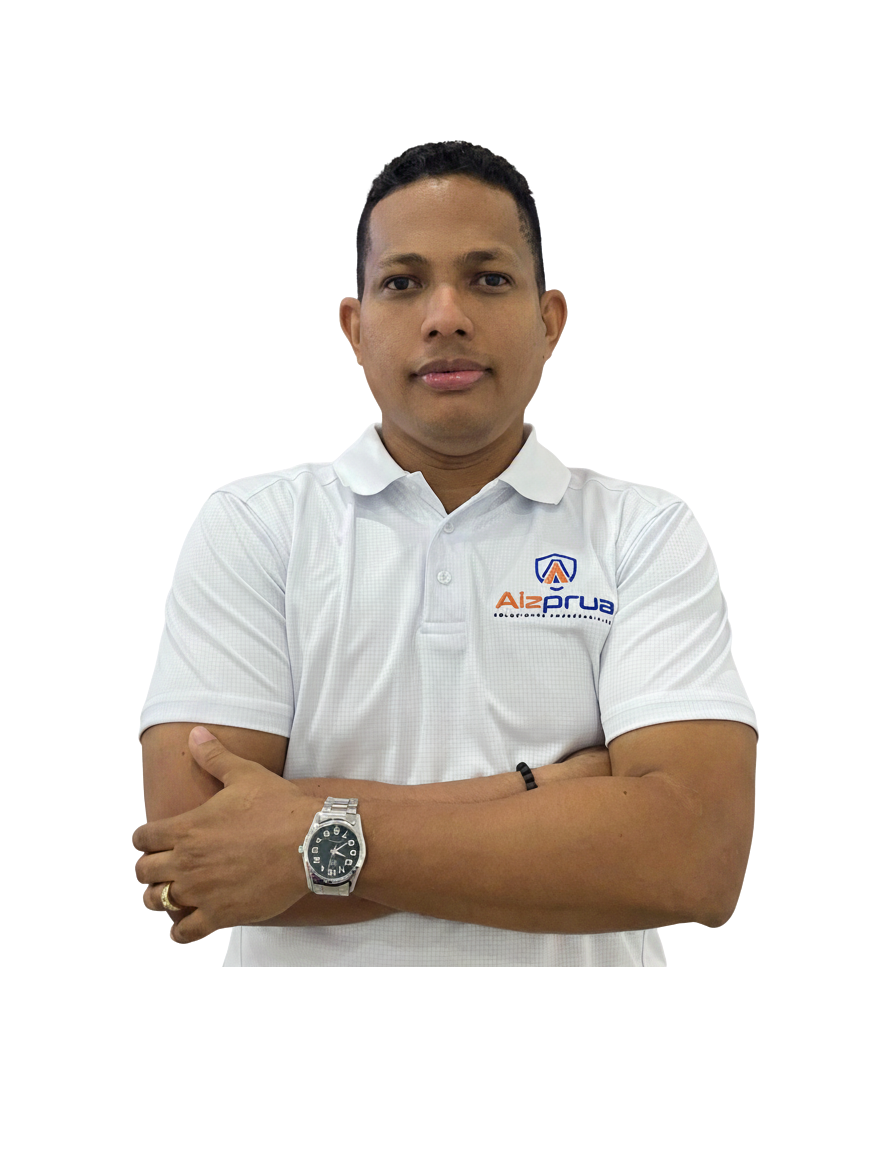
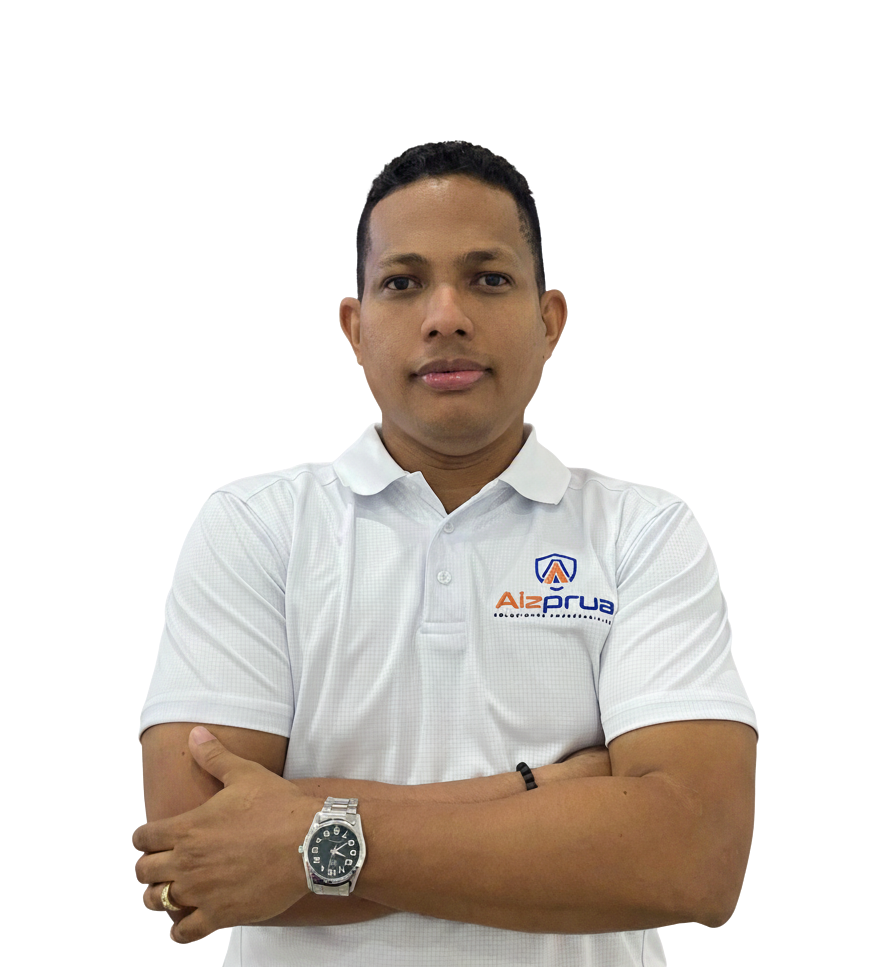
fix(ui): calibrar ensamble de foto y placa en embudo escudo y retirar plantilla-100 de panel

diff --git a/public/panel.html b/public/panel.html
@@ -177,7 +177,7 @@
       <div class="max-w-7xl mx-auto px-4 sm:px-6 lg:px-8 py-2 overflow-x-auto no-scrollbar flex items-center gap-2">
         <button onclick="filterCategory('all')" data-cat="all" class="cat-pill active px-3 py-1.5 rounded-xl text-xs font-bold bg-brand-blue text-white transition flex items-center gap-1.5 shrink-0 shadow-sm shadow-brand-blue/20">
           <i data-lucide="layers" class="w-3.5 h-3.5 shrink-0"></i>
-          <span>Todas (70)</span>
+          <span>Todas (69)</span>
         </button>
         <button onclick="filterCategory('servicios')" data-cat="servicios" class="cat-pill px-3 py-1.5 rounded-xl text-xs font-semibold text-slate-600 hover:text-brand-blue hover:bg-slate-100 transition flex items-center gap-1.5 shrink-0 border border-transparent">
           <i data-lucide="briefcase" class="w-3.5 h-3.5 shrink-0"></i>
@@ -209,7 +209,7 @@
         </button>
         <button onclick="filterCategory('herramientas')" data-cat="herramientas" class="cat-pill px-3 py-1.5 rounded-xl text-xs font-semibold text-slate-600 hover:text-brand-blue hover:bg-slate-100 transition flex items-center gap-1.5 shrink-0 border border-transparent">
           <i data-lucide="wrench" class="w-3.5 h-3.5 shrink-0"></i>
-          <span>Herramientas &amp; Proformas (10)</span>
+          <span>Herramientas &amp; Proformas (9)</span>
         </button>
         <button onclick="filterCategory('legal')" data-cat="legal" class="cat-pill px-3 py-1.5 rounded-xl text-xs font-semibold text-slate-600 hover:text-brand-blue hover:bg-slate-100 transition flex items-center gap-1.5 shrink-0 border border-transparent">
           <i data-lucide="shield-check" class="w-3.5 h-3.5 shrink-0"></i>
@@ -1416,23 +1416,6 @@
       "blog",
       "maqueta",
       "nuevo articulo"
-    ]
-  },
-  {
-    "id": "plantilla-100",
-    "file": "plantilla-100.html",
-    "urlPath": "plantilla-100",
-    "title": "Plantilla Base 100% Corporativa",
-    "category": "herramientas",
-    "categoryLabel": "Herramientas & Proformas",
-    "badge": "Template",
-    "desc": "Estructura base con Navbar oficial, Footer canónico, Lucide y configuración de Tailwind lista.",
-    "tags": [
-      "plantilla 100",
-      "base",
-      "template",
-      "design system",
-      "boilerplate"
     ]
   },
   {

diff --git a/public/Embudo-Escudo-Preventivo/index.html b/public/Embudo-Escudo-Preventivo/index.html
@@ -411,10 +411,10 @@
                             
                             <!-- Contenedor unificado: Foto y Botón hacen Zoom JUNTOS al mismo tiempo -->
                             <div class="relative w-full flex flex-col items-center group cursor-pointer transform hover:scale-105 transition-transform duration-500">
-                                <img src="/assets/Diseño sin título.png" onerror="this.onerror=null; this.src='../assets/Diseño sin título.png';" alt="Arubel Aizprua - CEO & Director Fundador Aizprua S.E." class="w-auto h-[370px] sm:h-[410px] object-contain filter drop-shadow-[0_15px_30px_rgba(0,0,0,0.5)] pb-2">
+                                <img src="/assets/arubel-founder-clean.png" onerror="this.onerror=null; this.src='../assets/arubel-founder-clean.png';" alt="Arubel Aizprua - CEO & Director Fundador Aizprua S.E." class="w-auto h-[350px] sm:h-[390px] object-contain filter drop-shadow-[0_15px_30px_rgba(0,0,0,0.5)] translate-y-2">
                                 
                                 <!-- Placa de Identificación montada de forma armónica al pie de la camisa -->
-                                <div class="absolute bottom-3 inset-x-0 mx-auto bg-white/10 backdrop-blur-md px-5 py-2.5 rounded-2xl border border-white/20 text-center shadow-2xl w-full max-w-[250px] z-20 group-hover:border-brand-orange/50 transition-colors">
+                                <div class="-mt-4 relative z-20 mx-auto bg-white/10 backdrop-blur-md px-5 py-2.5 rounded-2xl border border-white/20 text-center shadow-2xl w-full max-w-[250px] group-hover:border-brand-orange/50 transition-colors">
                                     <h3 class="font-extrabold text-white text-base leading-tight">Arubel Aizprua</h3>
                                     <p class="text-brand-orange-light font-semibold text-[11px] tracking-wider uppercase">CEO & Director Fundador</p>
                                 </div>

diff --git a/MAPA_PAGINAS.md b/MAPA_PAGINAS.md
@@ -119,7 +119,6 @@
 | **Simulador de Dispositivos (Visor)** | [`visor.html`](public/visor.html) | `https://aizprua.com/visor` | Previsualizador responsive dentro de marcos de iPhone, Galaxy y Mac. |
 | **Verificador / Guía de RUC** | [`ruc.html`](public/ruc.html) | `https://aizprua.com/ruc` | Consulta y validación de Registro Único de Contribuyente y DV. |
 | **Auditor & Verificador Legal Web (Ley 81)** | [`verificador.html`](public/verificador.html) | `https://aizprua.com/verificador` | Escáner en línea para auditar sitios web: cumplimiento de Ley 81, SEO y metaetiquetas. |
-| **Plantilla Base Corporativa** | [`plantilla-100.html`](public/plantilla-100.html) | `https://aizprua.com/plantilla-100` | Boilerplate oficial con Navbar, Footer y componentes del Design System. |
 | **Banco de Pruebas de Logos** | [`test-logo-escuela.html`](public/test-logo-escuela.html) | `https://aizprua.com/test-logo-escuela` | Validación de contraste y resolución de marcas del grupo. |
 
 ---
